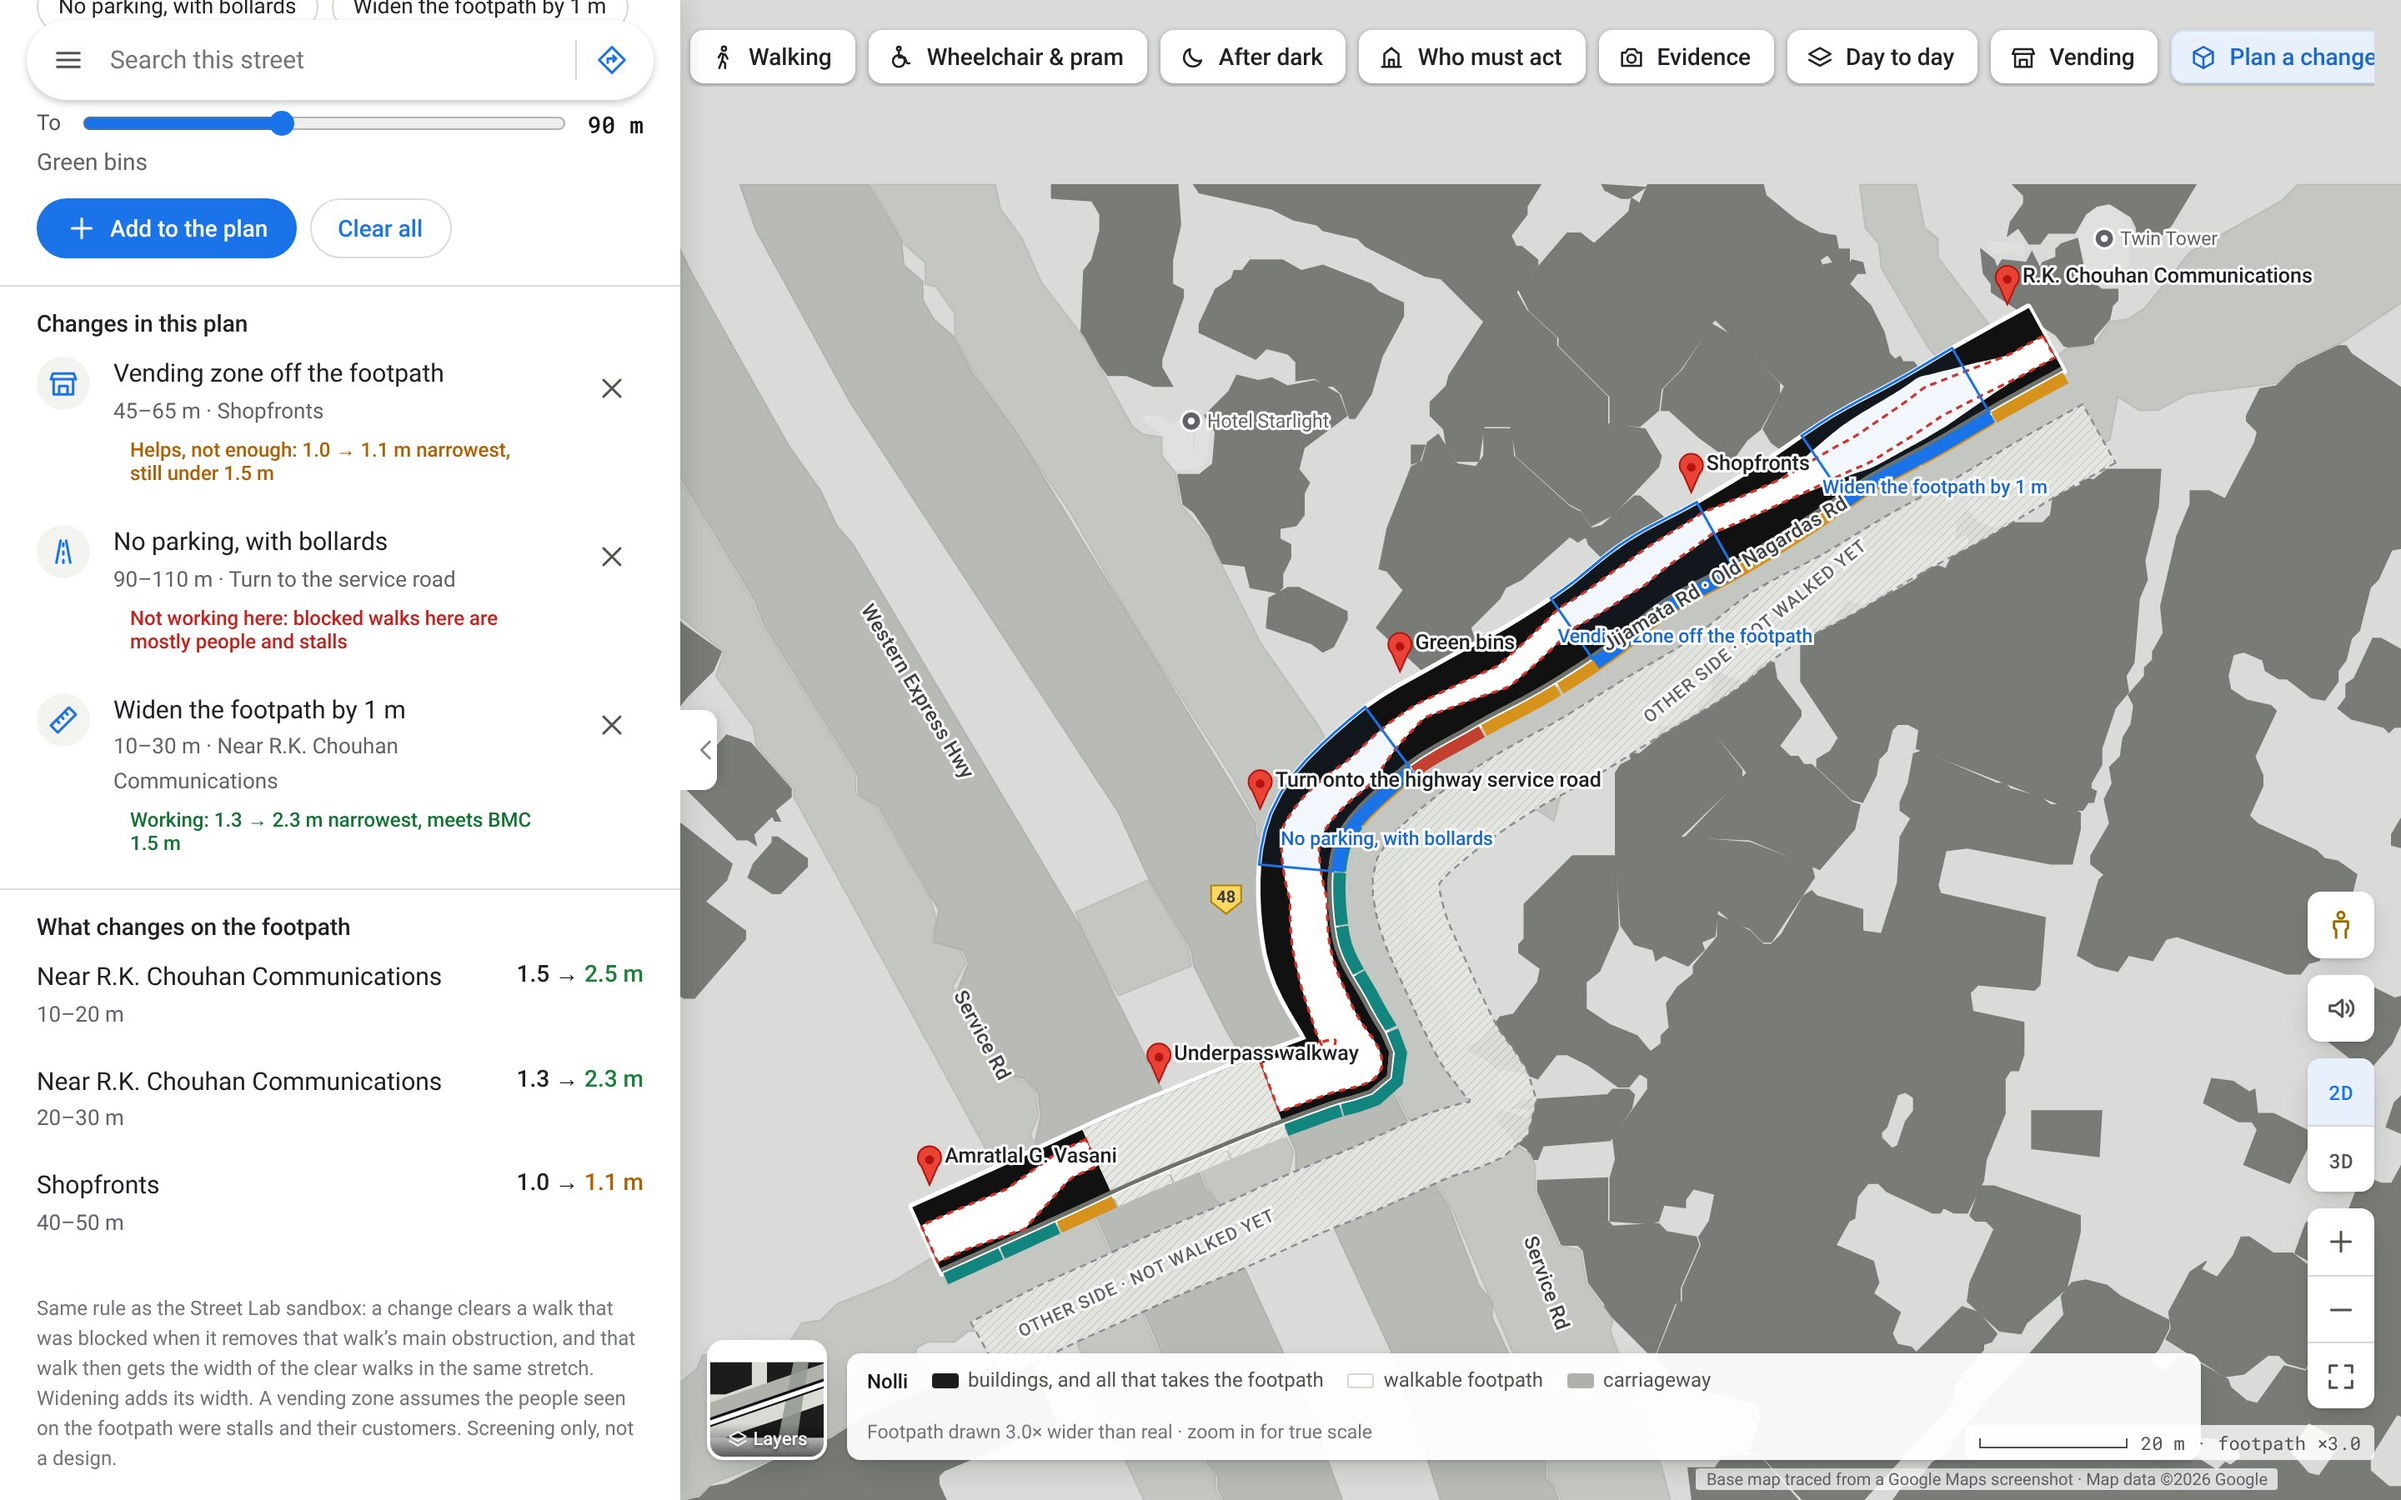
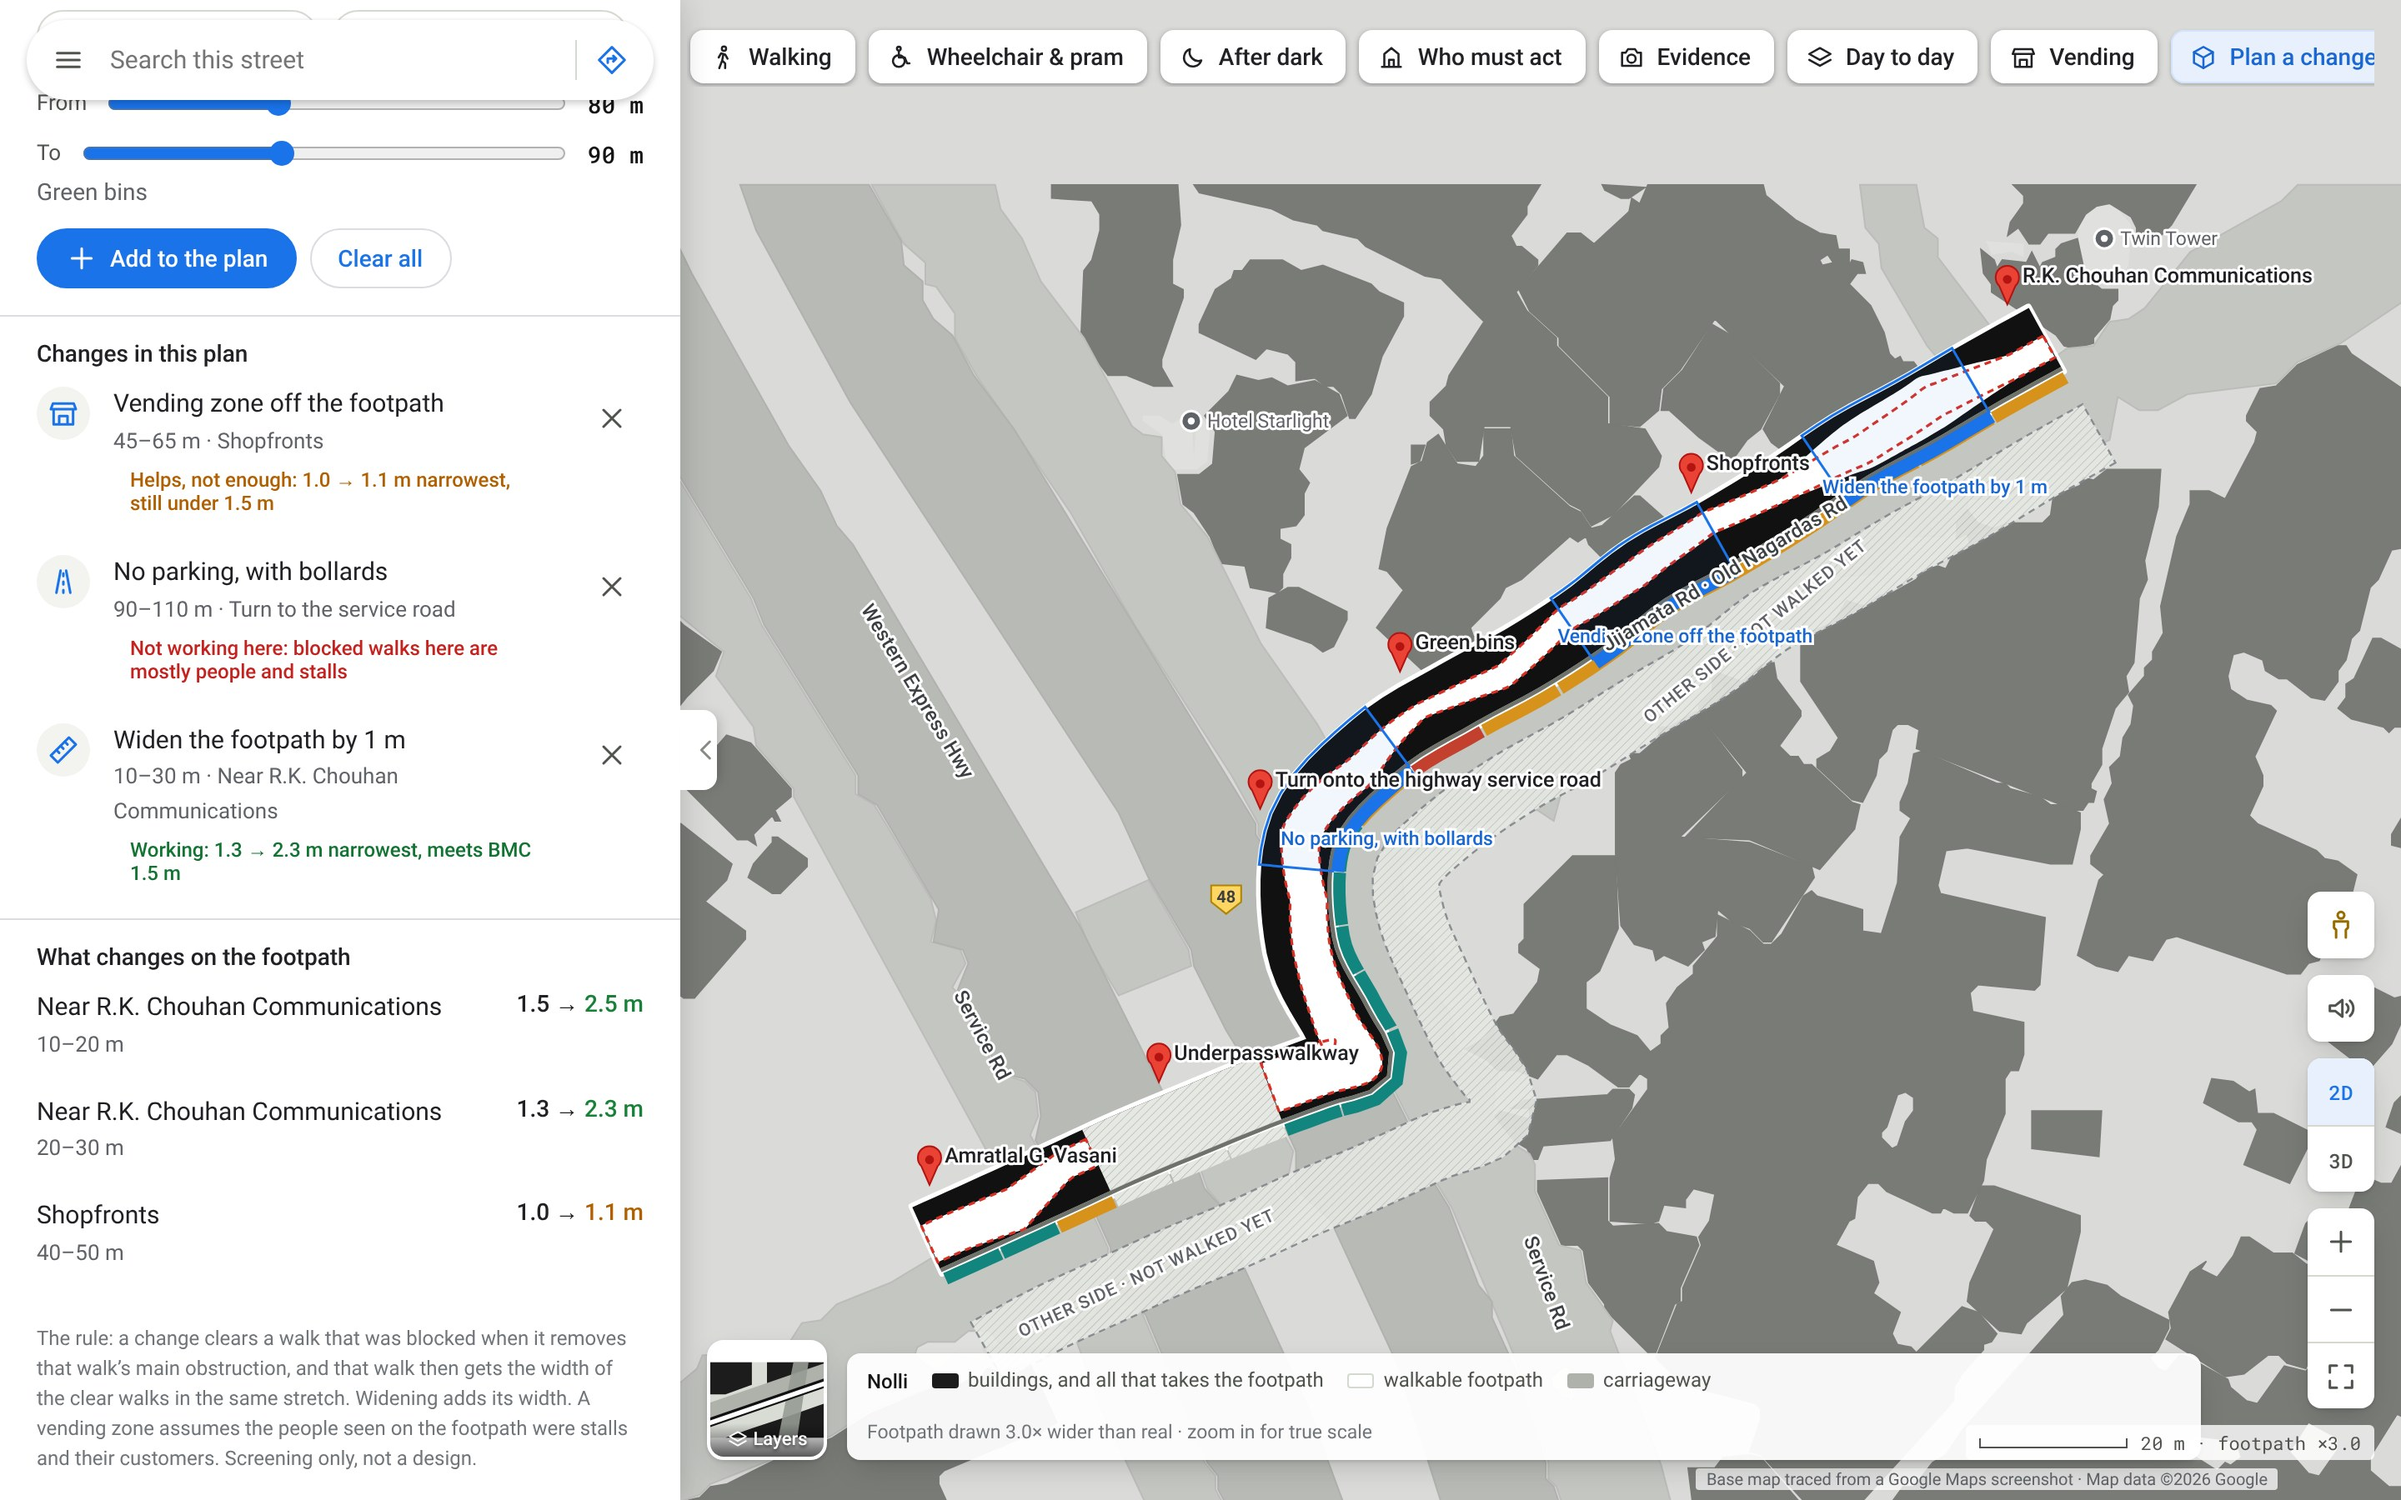
Remove the old project name from the map and recapture sandbox screenshots
Claude-Session: https://claude.ai/code/session_015shB5T55dWDQ8sygg24Ctu

diff --git a/street-intelligence/pedmap/map.html b/street-intelligence/pedmap/map.html
@@ -520,7 +520,7 @@ function stepText(st, r) {
 const PROFS = { walk: ['Walk', 'walk'], access: ['Wheelchair', 'wheel'], night: ['After dark', 'moon'] };
 function makeRoute() { state.route = buildRoute(state.from, state.to, state.prof); }
 
-/* ---------- plan a change: the Street Lab sandbox, on the map ----------
+/* ---------- plan a change: the sandbox, on the map ----------
    As in the sandbox: a change clears a walk that was blocked when it removes that walk's main obstruction;
    the cleared walk gets the width of the clear walks in the same stretch. Widening adds its width. */
 const PT = { fixed: ['Move poles, bins and barriers', ['pole', 'barrier'], 0, 'act'], trees: ['Tree grates, move planters', ['plants'], 0, 'act'], vend: ['Vending zone off the footpath', ['people'], 0, 'stall'], park: ['No parking, with bollards', ['vehicle'], 0, 'road'], widen: ['Widen the footpath by 1 m', [], 1, 'ruler'] };
@@ -864,7 +864,7 @@ function planView() { const P2 = state.plan, sm = planSummary(), i = state.sel ?
   const big = (v0, v1, l, good) => `<div class="stat"><b>${v0} <span style="color:var(--g3);font-weight:400">→</span> <span style="color:${v1 === v0 ? 'var(--g1)' : good(v1, v0) ? '#188038' : '#D93025'}">${v1}</span></b><span>${l}</span></div>`;
   const changed = sm.b.map((g, k) => [k, g, sm.a[k]]).filter(([, g, a]) => g != null && a != null && Math.abs(a - g) > .04);
   return `<div class="ph"><button class="ib" data-act="home" aria-label="Back">${I.back}</button><span class="grow">PLAN A CHANGE · FOR PLANNERS AND THE WARD</span></div>
-    <div class="sec"><h2 class="h1">Try a change on this footpath</h2><div class="sub">The Street Lab sandbox, on the map. Widths are recalculated from the same 11 daytime walks.</div>
+    <div class="sec"><h2 class="h1">Try a change on this footpath</h2><div class="sub">A sandbox on the map. Widths are recalculated from the same 11 daytime walks.</div>
       <div class="dmodes" style="padding:12px 0 0"><button class="dm" data-show="after" aria-pressed="${P2.show === 'after'}">With changes</button><button class="dm" data-show="before" aria-pressed="${P2.show === 'before'}">As surveyed</button></div></div>
     <div class="sec" style="padding-top:4px"><div class="grid2">${big(sm.okB, sm.okA, 'stretches meet BMC 1.5 m', (a, b) => a > b)}${big(sm.roadB + ' m', sm.roadA + ' m', 'where you step into the road', (a, b) => parseFloat(a) < parseFloat(b))}${big(sm.wcB, sm.wcA, `stretches with 0.9 m for a wheelchair (of ${sm.n})`, (a, b) => a > b)}${big(Math.min(...sm.b.filter(g => g != null)).toFixed(1) + ' m', Math.min(...sm.a.filter(g => g != null)).toFixed(1) + ' m', 'narrowest clear width', (a, b) => parseFloat(a) > parseFloat(b))}</div></div>
     <div class="sec"><div class="lab">Drag a change onto the footpath</div><div class="sub">Drop it on the map where you want it. The footpath redraws, and the plan says whether it works. Drag a placed change along the footpath to move it.</div><div class="ptiles">${Object.entries(PT).map(([k, [nm, , , ic]]) => `<div class="ptile" data-ptile="${k}" role="button" tabindex="0"><span class="ic">${I[ic]}</span><span>${esc(nm)}</span></div>`).join('')}</div></div>
@@ -875,7 +875,7 @@ function planView() { const P2 = state.plan, sm = planSummary(), i = state.sel ?
       <div style="display:flex;gap:8px;margin-top:12px;flex-wrap:wrap"><button class="btn" data-act="padd">${I.plus}Add to the plan</button>${n ? `<button class="btn g" data-act="pclear">Clear all</button>` : ''}</div></div>
     ${n ? `<div class="list"><div class="lab" style="padding:8px 22px 2px">Changes in this plan</div>${P2.items.map((it, k) => `<div class="row"><span class="ic" style="color:#1A73E8">${I[PT[it.t][3]]}</span><span class="t"><b>${esc(PT[it.t][0])}</b><small>${it.m0}–${it.m1} m · ${esc(placeOf((it.m0 + it.m1) / 2))}${(() => { const vd = verdict(it); return `<span class="verdict v${vd.v}">${esc(vd.t)}</span>`; })()}</small></span><button class="ib" data-pdel="${k}" aria-label="Remove">${I.x}</button></div>`).join('')}</div>` : ''}
     ${changed.length ? `<div class="list" style="border-top:1px solid var(--gl)"><div class="lab" style="padding:8px 22px 2px">What changes on the footpath</div>${changed.map(([k, g, a]) => `<button class="row" data-go="${k}"><span class="t"><b>${esc(placeOf(k * 10 + 5))}</b><small>${k * 10}–${k * 10 + 10} m</small></span><span class="v">${g.toFixed(1)} → <span style="color:${a >= 1.5 ? '#188038' : a >= .9 ? '#B06000' : '#D93025'}">${a.toFixed(1)} m</span></span></button>`).join('')}</div>` : ''}
-    <div class="sec"><p class="note">Same rule as the Street Lab sandbox: a change clears a walk that was blocked when it removes that walk’s main obstruction, and that walk then gets the width of the clear walks in the same stretch. Widening adds its width. A vending zone assumes the people seen on the footpath were stalls and their customers. Screening only, not a design.</p></div>`; }
+    <div class="sec"><p class="note">The rule: a change clears a walk that was blocked when it removes that walk’s main obstruction, and that walk then gets the width of the clear walks in the same stretch. Widening adds its width. A vending zone assumes the people seen on the footpath were stalls and their customers. Screening only, not a design.</p></div>`; }
 function setView(v, opts = {}) { state.view = v; $('app').classList.toggle('dirmode', v === 'dirs'); if (v === 'home') { state.sel = null; } if (v !== 'dirs') { state.route = null; state.pick = null; svg.classList.remove('pick'); }
   sc.innerHTML = v === 'home' ? homeView() : v === 'place' ? placeView() : v === 'dirs' ? dirsView() : v === 'report' ? reportView() : v === 'results' ? resultsView() : v === 'plan' ? planView() : menuView();
   if (!opts.keepScroll) sc.scrollTop = 0; if (phone() && opts.snap) snap(opts.snap); draw(); syncHash(); }
